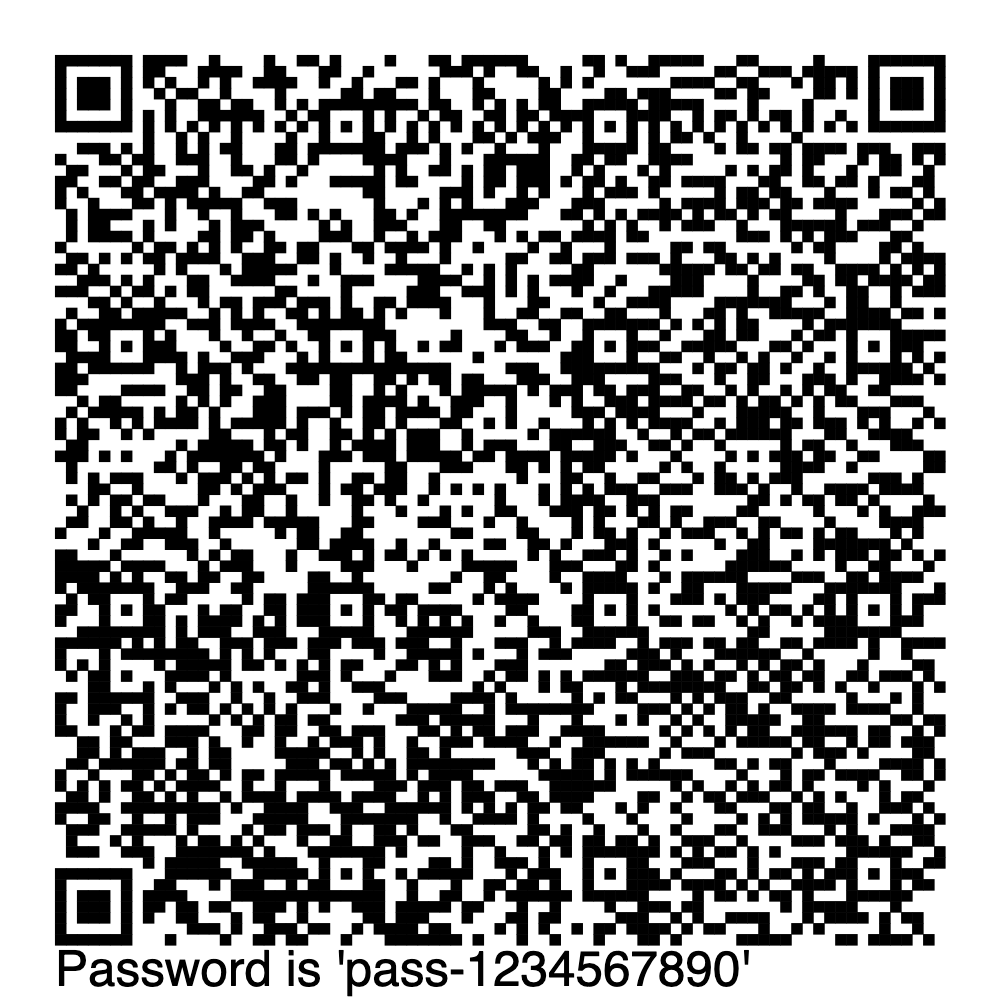
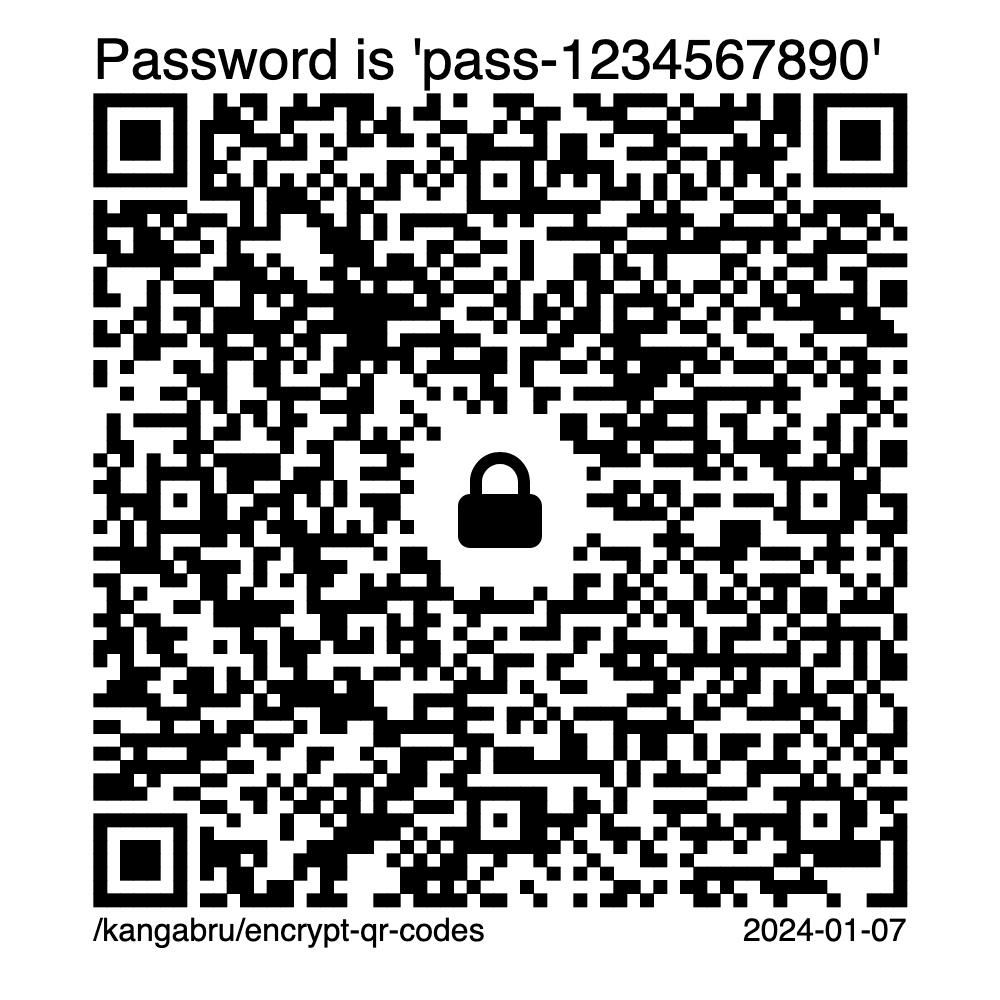
Improved the QR generation code

diff --git a/src/common/qrcode.browser.ts b/src/common/qrcode.browser.ts
@@ -33,61 +33,113 @@ export function generateQrCodeSvg(
   data: string,
   textLeft?: string,
   textRight?: string,
+  showLockSymbol?: boolean,
 ): string {
   const blocks = getQrCodeBlocks(data)
-  return renderBlocksToSvg(blocks, textLeft, textRight)
+  return renderBlocksToSvg(blocks, textLeft, textRight, showLockSymbol)
 }
 
 function renderBlocksToSvg(
-  { size, blocks }: Blocks,
-  textLeft?: string,
-  textRight?: string,
+  blocks: Blocks,
+  title?: string,
+  date?: string,
+  showLockSymbol?: boolean,
 ): string {
-  const pad = Math.ceil(size * 0.05)
+  const pad = Math.ceil(blocks.size * 0.1)
+  const size = blocks.size + 2 * pad
 
-  const totalSize = size + 2 * pad
-  const svgLines: string[] = [
-    `<svg xmlns="http://www.w3.org/2000/svg" viewBox="0 0 ${totalSize} ${totalSize}" fill="white">`,
-    `<defs><rect id="r" height="1.05" width="1.05" fill="black" /></defs>`,
-  ]
+  return `<svg xmlns="http://www.w3.org/2000/svg" viewBox="0 0 ${size} ${size}" fill="black">
+    <defs>
+      <rect id="r" height="1.05" width="1.05" />
+      <svg id="lock" viewBox="0 0 20 20" xmlns="http://www.w3.org/2000/svg">
+        <path clip-rule="evenodd" fill-rule="evenodd" d="M5 9V7a5 5 0 0110 0v2a2 2 0 012 2v5a2 2 0 01-2 2H5a2 2 0 01-2-2v-5a2 2 0 012-2zm8-2v2H7V7a3 3 0 016 0z" />
+      </svg>
+    </defs>
+    ${getQrBlocks(blocks, size, pad, !!showLockSymbol)}
+    ${getQrText(title, date, size, pad)}
+  </svg>`
+}
 
-  const ty = totalSize - pad / 2,
-    tr = totalSize - pad
-  const tSize = (pad * 0.9).toFixed(1)
-  const textAttrs = `font-size="${tSize}" font-family="sans-serif" fill="black" dominant-baseline="central"`
+function getQrBlocks(
+  { size, blocks }: Blocks,
+  svgSize: number,
+  pad: number,
+  showLockSymbol: boolean,
+): string {
+  const svgLines: string[] = []
 
-  if (textLeft) {
-    const line = xml`<text x="${pad}" y="${ty}" text-anchor="start" $attrs>${textLeft}</text>`
-    svgLines.push(line.replace("$attrs", textAttrs))
+  const xMid = svgSize / 2 - pad
+  const yMid = xMid
+
+  let sizeLock = Math.ceil(size * 0.12)
+  if (sizeLock % 2 === 0) sizeLock++
+  const sizeLockSq = (sizeLock * 0.75) ** 2
+
+  for (let [x, y] of blocks) {
+    const distSq = (x + 0.5 - xMid) ** 2 + (y + 0.5 - yMid) ** 2
+    if (!showLockSymbol || distSq > sizeLockSq)
+      svgLines.push(`<use href="#r" x="${pad + x}" y="${pad + y}" />`)
   }
 
-  if (textRight) {
-    const line = xml`<text x="${tr}" y="${ty}" text-anchor="end" $attrs>${textRight}</text>`
-    svgLines.push(line.replace("$attrs", textAttrs))
+  if (showLockSymbol) {
+    const pLock = pad + xMid - sizeLock / 2
+    svgLines.push(
+      `<use href="#lock" x="${pLock}" y="${pLock}" width="${sizeLock}" height="${sizeLock}" />`,
+    )
   }
-
-  for (let [x, y] of blocks)
-    svgLines.push(`<use href="#r" x="${pad + x}" y="${pad + y}" />`)
-
-  svgLines.push(`</svg>`)
 
   return svgLines.join("")
 }
 
-function xml(
-  strings: TemplateStringsArray,
-  ...values: (string | number | boolean)[]
+function getQrText(
+  title: string | undefined,
+  date: string | undefined,
+  size: number,
+  pad: number,
 ): string {
-  return strings.reduce((result, string, i) => {
-    let value = values[i - 1]
-    if (typeof value === "string") {
-      value = escapeXML(value)
-    }
-    return result + value + string
-  })
+  const svgLines: string[] = []
+
+  const f = 0.85
+  const [x1, x2] = [pad, size - pad]
+  const [y1, y2] = [pad * f, size - pad * f]
+
+  const fontLarge = (pad * 0.6).toFixed(1)
+  const fontSmall = (pad * 0.35).toFixed(1)
+
+  // Top left
+  if (title)
+    svgLines.push(
+      `<text x="${x1}" y="${y1}" font-size="${fontLarge}" text-anchor="start" font-family="sans-serif">
+        ${escape(title)}
+      </text>`,
+    )
+
+  svgLines.push(
+    `<g font-size="${fontSmall}" font-family="sans-serif" dominant-baseline="hanging">`,
+  )
+
+  // Bottom right
+  if (date) {
+    svgLines.push(
+      `<text x="${x2}" y="${y2}" text-anchor="end">
+        ${escape(date)}
+      </text>`,
+    )
+  }
+
+  // Bottom left
+  svgLines.push(
+    `<text x="${x1}" y="${y2}" text-anchor="start">
+      /kangabru/encrypt-qr-codes
+    </text>`,
+  )
+
+  svgLines.push(`</g>`)
+
+  return svgLines.join("")
 }
 
-function escapeXML(str: string) {
+function escape(str: string) {
   return str.replace(/[<>&'"]/g, function (char) {
     switch (char) {
       case "<":

diff --git a/src/common/qrcode.ts b/src/common/qrcode.ts
@@ -31,7 +31,7 @@ export function getQrCodeBlocks(
     [ErrorCorrectionLevel.Medium]: QRCodeDecoderErrorCorrectionLevel.M,
     [ErrorCorrectionLevel.High]: QRCodeDecoderErrorCorrectionLevel.Q,
     [ErrorCorrectionLevel.Higher]: QRCodeDecoderErrorCorrectionLevel.H,
-  }[errorCorrectionLevel ?? ErrorCorrectionLevel.Higher]
+  }[errorCorrectionLevel ?? ErrorCorrectionLevel.Medium]
 
   let code: QRCode
   try {

diff --git a/src/app/encrypt/page.tsx b/src/app/encrypt/page.tsx
@@ -60,6 +60,7 @@ async function encrypt({
     JSON.stringify(dataEncrypted),
     dataEncrypted.hint,
     dataEncrypted.date,
+    true,
   )
 
   console.info("Generated encrypted QR Code:")
